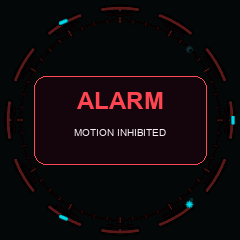
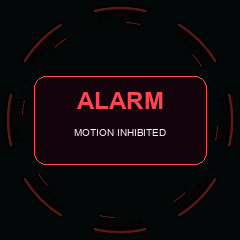
Show red retained bezel during critical alarms

diff --git a/tools/render_round_ui.py b/tools/render_round_ui.py
@@ -28,7 +28,7 @@ if ARGS.bezel not in bezel_palette.PALETTES or not BEZEL_PATH.is_file():
     raise SystemExit("generated runtime bezel not found: {}".format(BEZEL_PATH))
 
 
-def load_runtime_bezel(name):
+def load_runtime_bezel(name, palette_name=None):
     """Decode the exact LSB-first 4bpp asset and palette used by firmware."""
     path = ASSET_ROOT / "runtime" / (name + ".4bpp")
     if name not in bezel_palette.PALETTES or not path.is_file():
@@ -40,7 +40,7 @@ def load_runtime_bezel(name):
     for offset, value in enumerate(data):
         indices[offset * 2] = value & 0x0F
         indices[offset * 2 + 1] = value >> 4
-    colors = bezel_palette.PALETTES[name]
+    colors = bezel_palette.PALETTES[palette_name or name]
     # Approximate the panel's RGB565 color conversion in the preview. Keep
     # index zero transparent, matching Palette.make_transparent(0).
     rgba_palette = []
@@ -310,15 +310,17 @@ for storage, primary, secondary in (
 
 
 def state_canvas(palette_name="industrial", bezel_name=None, rotor_angle=0.0,
-                 outer_angle=None):
+                 outer_angle=None, alarm=False):
     colors = theme.select(palette_name)
     selected = bezel_name or ARGS.bezel
-    art = load_runtime_bezel(selected)
+    art = load_runtime_bezel(selected,
+                             "red_alarm" if alarm else selected)
     base = Image.new("RGBA", (240, 240), rgb(colors["background"])+(255,))
     image = Image.alpha_composite(base, art).convert("RGB")
     draw = ImageDraw.Draw(image)
-    draw_hud_orbs(draw, colors, outer_angle=outer_angle)
-    draw_rotor_segments(image, colors, rotor_angle)
+    if not alarm:
+        draw_hud_orbs(draw, colors, outer_angle=outer_angle)
+        draw_rotor_segments(image, colors, rotor_angle)
     draw = ImageDraw.Draw(image)
     return image, draw, colors
 
@@ -372,7 +374,7 @@ touch_preview = Image.alpha_composite(touch_preview, touch_layer)
 touch_preview.convert("RGB").save(OUT / "touch-ripple.png")
 
 alarm_image, alarm_draw, alarm_colors = state_canvas(
-    "industrial", "red_alarm")
+    "industrial", alarm=True)
 alarm_draw.rounded_rectangle((34, 76, 206, 164), radius=12,
                              fill=(20, 5, 12), outline=(255, 73, 85), width=1)
 alarm_draw.text((120, 101), "ALARM", anchor="mm", font=large,

diff --git a/src/display/round_ui/renderer.py b/src/display/round_ui/renderer.py
@@ -4,7 +4,7 @@ import math
 import time
 
 from ..navigation import menu_window_start
-from . import theme
+from . import bezel_palette, theme
 
 from .components import (AxisReadout, ConnectivityGlyphs, IncrementBadge,
                          InstrumentRing, MenuHighlight, MotionPrompt, Overlay,
@@ -127,6 +127,10 @@ class RoundRenderer:
         self._last_nonhome_model_ticks = None
         self._last_nonhome_safety_signature = None
         self.palettes = scene.get("palettes", {})
+        self._bezel_palette = self.palettes.get("bezel")
+        self._bezel_base_palette = bezel_palette.PALETTES.get(
+            scene.get("bezel_name") or bezel_palette.DEFAULT_BEZEL)
+        self._bezel_alarm_active = False
         self._halo_palette = self.palettes.get("halo")
         self.themed_text = scene.get("themed_text", ())
         self.active_theme = None
@@ -208,6 +212,23 @@ class RoundRenderer:
 
     def bind_ui(self, ui):
         self.ui = ui
+
+    def _set_bezel_alarm(self, overlay):
+        """Retint only the retained bezel palette for a critical alarm."""
+        active = bool(overlay and overlay[0] in ("E-STOP", "ALARM"))
+        if active == self._bezel_alarm_active or self._bezel_palette is None:
+            return False
+        colors = (bezel_palette.PALETTES["red_alarm"] if active else
+                  self._bezel_base_palette)
+        if colors is None:
+            return False
+        changed = False
+        for index in range(1, min(16, len(colors))):
+            if self._bezel_palette[index] != colors[index]:
+                self._bezel_palette[index] = colors[index]
+                changed = True
+        self._bezel_alarm_active = active
+        return changed
 
     def touch_feedback(self, point, until):
         """Show a preallocated, temporary touch target; never dispatch actions."""
@@ -680,6 +701,7 @@ class RoundRenderer:
             self._last_nonhome_safety_signature = safety_signature
         model_started = self._profile_ticks_ms()
         model = self.ui.view_model()
+        self._set_bezel_alarm(model.get("overlay"))
         if self._page_transition is not None and \
                 self._page_transition["phase"] == "commit":
             self._page_transition["phase"] = "in"

diff --git a/tests/test_round_ui.py b/tests/test_round_ui.py
@@ -5,7 +5,7 @@ from src.display.round_ui.renderer import RoundRenderer, _profile_ticks_diff
 from src.display.round_ui.components import MenuHighlight
 from src.display.round_ui.bootstrap import apply_mock_state
 from src.display.round_ui.geometry import RoundLayout
-from src.display.round_ui import theme
+from src.display.round_ui import bezel_palette, theme
 from src.display.ui import ROTATE_CCW, ROTATE_CW, SELECT, UIManager
 from src.state import PendantState
 
@@ -302,6 +302,23 @@ class RoundRendererTests(unittest.TestCase):
         renderer.ui.active_overlay = lambda: ("E-STOP", "test")
         renderer.animate(0.2)
         self.assertTrue(all(item.hidden for item in segments))
+
+    def test_critical_alarm_tints_bezel_red_and_restores_selected_theme(self):
+        _, _, _, renderer = self.make_renderer()
+        renderer._bezel_palette = list(bezel_palette.PALETTES["cyan_reactor"])
+        renderer._bezel_base_palette = bezel_palette.PALETTES["cyan_reactor"]
+        renderer._bezel_alarm_active = False
+        transparent = renderer._bezel_palette[0]
+
+        self.assertTrue(renderer._set_bezel_alarm(("E-STOP", "LATCHED")))
+        self.assertEqual(renderer._bezel_palette[0], transparent)
+        self.assertEqual(renderer._bezel_palette[7],
+                         bezel_palette.PALETTES["red_alarm"][7])
+        self.assertFalse(renderer._set_bezel_alarm(("E-STOP", "LATCHED")))
+
+        self.assertTrue(renderer._set_bezel_alarm(None))
+        self.assertEqual(renderer._bezel_palette,
+                         list(bezel_palette.PALETTES["cyan_reactor"]))
 
     def test_encoder_feedback_tracks_detent_direction_and_fades(self):
         state, _, _, renderer = self.make_renderer()

diff --git a/src/display/round_ui/display.py b/src/display/round_ui/display.py
@@ -272,6 +272,8 @@ def displayio_scene(display, colors=None, bezel_name=None):
         # Decorative light stays beneath all readouts, feedback, and alarms.
         root.append(displayio.TileGrid(bezel_bitmap, pixel_shader=bezel_colors))
     palettes = {"dial": palette}
+    if bezel_colors is not None:
+        palettes["bezel"] = bezel_colors
     # One shared sprite sheet supplies 16 precomputed subpixel phases. Separate
     # palettes keep the two counter-rotating indicators visually distinct.
     hud_markers = []

diff --git a/docs/round-hud-assets.md b/docs/round-hud-assets.md
@@ -79,6 +79,12 @@ pixel-exact device captures. Physical frame pacing, heap stability, the
 continuous page slide, and the visual response to a connected handwheel must be
 checked on the S3.
 
+Critical `ALARM` and `E-STOP` overlays retint the existing bezel palette to the
+dim red alarm palette while preserving its geometry and transparent index. The
+change is a bounded palette update on the normal UI render path; motion markers
+and rotor segments remain hidden while the critical overlay is active. Clearing
+the overlay restores the selected bezel's original palette.
+
 ## Validation
 
 ```sh
